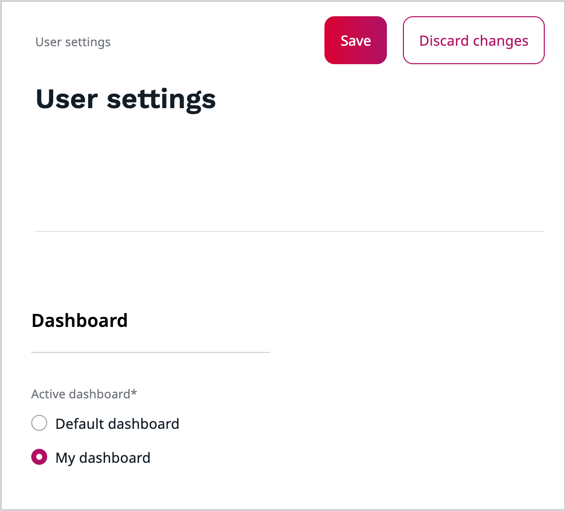
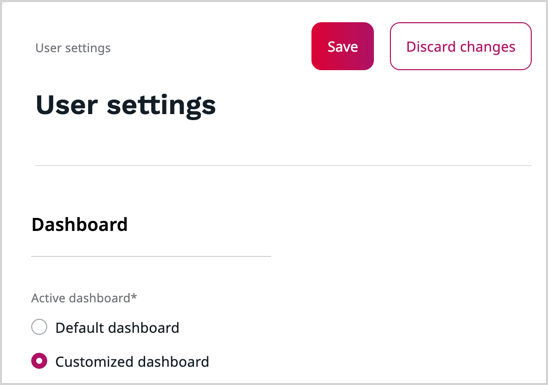
Content and screenshots updated

diff --git a/docs/getting_started/discover_ui.md b/docs/getting_started/discover_ui.md
@@ -21,14 +21,12 @@ It includes title, image, timestamp, and link to article details. List can conta
 
 - **My content** - a list of Content items created by the user currently logged in.
 
-- **Common content** - a list of Content items created by all the organization that the user belongs to.
+- **Common content** - a list of Content items created by all the organization that the user belongs to. You can select any of these items and view them in detail or start [editing them](create_edit_content_items.md) from this point.
+You can also [reschedule or cancel planned publications](../content_management/schedule_publishing.md#reschedule_or_cancel_publications) using the dashboard.
 
 ![Dashboard](img/dashboard.png "Dashboard")
 
-You can select any of these items and view them in detail or start [editing them](create_edit_content_items.md) from this point.
-You can also [reschedule or cancel planned publications](../content_management/schedule_publishing.md#reschedule_or_cancel_publications) using the dashboard.
-
-You can always return to the **Dashboard** screen by clicking the logo in the upper left corner.
+From any page you can always return to the **Dashboard** screen by clicking the logo in the upper left corner.
 
 ![Dashboard icon](img/dashboard_icon.png)
 
@@ -45,7 +43,7 @@ Customization includes also choosing one of predefined layouts and adding custom
 
 ### Customize dashboard
 
-To customize dashboard, on the main page, click **Go to dashboard builder**.
+To customize dashboard, on the main page, click **Customize dashboard**.
 
 ![Customize dashboard](img/customize_dashboard.png "Customize dashboard")
 
@@ -88,18 +86,13 @@ Dashboard Builder has two main toolbars that you can use while creating a dashbo
 For new dashboard you can choose layout which defines the available zones.
 Applying a layout divides the dashboard into the defined zones. The zones are placeholders for blocks.
 
-When you open Dashboard Builder, layout window appears.
-Choose one from available layouts and click **Save**.
-
-To switch layout, click **Switch layout** button in the left side of the upper toolbar.
+To do it, click the **Switch layout** icon on the left side of the upper toolbar, then choose one from available layouts, and click **Submit**.
 
 ![Switch layout](img/dashboard_switch_layout_window.png)
 
-Choose one of the available layouts and click **Submit**.
-
 #### Add blocks
 
-In Dashboard Builder you can access a menu of **Elements** — a set of blocks of content that you can add to the zones of the dashboard.
+In Dashboard Builder you can access a menu of **Elements** — it includes a set of blocks of content that you can add to the zones of the dashboard.
 
 You can choose from available blocks:
 
@@ -169,7 +162,7 @@ To do it, click an icon in the top right corner, and then click **Edit My dashbo
 This action opens Dashboard Builder that allows you to edit an active dashboard and publish its updated version.
 You can see all the implemented changes after reloading starting screen.
 
-#### Choose dashboard
+#### Select active dashboard
 
 When you create new customized dashboard, you can choose, which one you want to set as an active.
 
